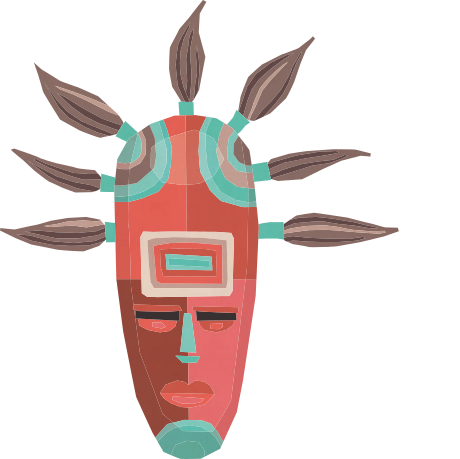
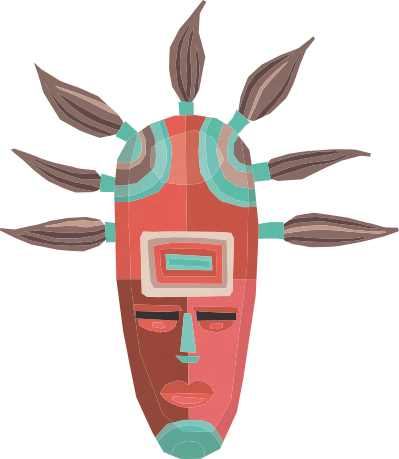
Add more masks

Changed region(s): [[0.0301, 0.0, 1.0, 1.0]]

diff --git a/index.html b/index.html
@@ -39,16 +39,45 @@
             float: left;
             clear: none;
             background-color: tan;
-            background-image:
-                url("assets/mask1.png"),
-                url("assets/fundo.png");
-            background-size: 25mm, cover;
-            background-position: 50% 10%, center center;
-            background-repeat: no-repeat, no-repeat;
             color: #5a3114;
             font-family: "p22", sans-serif;
             text-shadow: 0.2mm 0.2mm wheat;
 
+        }
+
+        .mask1,
+        .mask2,
+        .mask3,
+        .mask4 {
+            background-image:
+                url("assets/mask1.png"),
+                url("assets/fundo.png");
+            background-size: 30mm, cover;
+            background-position: 50% 10%, center center;
+            background-repeat: no-repeat, no-repeat;
+        }
+
+        .mask2 {
+            background-image:
+                url("assets/mask2.png"),
+                url("assets/fundo.png");
+            background-size: 44mm, cover;
+        }
+
+        .mask3 {
+            background-image:
+                url("assets/mask3.png"),
+                url("assets/fundo.png");
+            background-size: 40mm, cover;
+            background-position: 50% 19%, center center;
+        }
+
+        .mask4 {
+            background-image:
+                url("assets/mask4.png"),
+                url("assets/fundo.png");
+            background-size: 35mm, cover;
+            background-position: 50% 7%, center center;
         }
 
         .mini-euro {
@@ -136,7 +165,6 @@
         }
 
         .item {
-            /*border: 1px solid black;*/
             width: 6mm;
             height: 6mm;
             display: inline-block;
@@ -144,6 +172,7 @@
             background-size: contain;
             background-repeat: no-repeat;
         }
+
         .sn {
             background-image: url("assets/sn.png");
         }
@@ -165,17 +194,18 @@
         .to {
             background-image: url("assets/down.png");
         }
+
         .ca,
         .xca {
             width: 7mm;
             height: 7mm;
-            font-size: 0;
             background-image: url("assets/ca.png");
-            background-size: contain;
-            background-repeat: no-repeat;
         }
 
-        .pile, .gpile, .spile, .extra .ca {
+        .pile,
+        .gpile,
+        .spile,
+        .extra .ca {
             font-size: 0;
             background-image: url("assets/pile.png");
             background-size: contain;
@@ -191,9 +221,11 @@
         .spile {
             background-image: url("assets/spile.png");
         }
-        .extra .ca{
+
+        .extra .ca {
             background-image: url("assets/ca.png");
         }
+
         .per {
             border-block-color: transparent;
             visibility: hidden;
@@ -207,8 +239,6 @@
             font-size: 8mm;
             line-height: 8mm;
             visibility: visible;
-            color: #5a3114;
-            ;
         }
 
 
@@ -237,7 +267,11 @@
 
 
 
-        .merge, .split, .mca, .ms, .sa {
+        .merge,
+        .split,
+        .mca,
+        .ms,
+        .sa {
             border: none;
             font-size: 0;
             background-image: url("assets/merge2.png");
@@ -246,12 +280,15 @@
             width: 15mm;
             height: 10mm;
         }
+
         .mca {
             background-image: url("assets/mca.png");
         }
+
         .ms {
             background-image: url("assets/ms.png");
         }
+
         .split {
             background-image: url("assets/split.png");
         }
@@ -310,7 +347,9 @@
             visibility: visible;
         }
 
-        .pair, .equi, .sh {
+        .pair,
+        .equi,
+        .sh {
             font-size: 0;
             width: 15mm;
             height: 7mm;
@@ -318,11 +357,13 @@
             background-image: url("assets/pair2.png");
             background-repeat: no-repeat;
         }
+
         .sh {
             background-image: url("assets/sh.png");
             width: 18mm;
             height: 7mm;
         }
+
         .equi {
             background-size: 19mm;
             width: 19mm;
@@ -336,43 +377,43 @@
     <div class="paper a4"></div>
     <script type="module">
         const CARDS = [
-            { type: "moon", cost: 1, effect: ["sn"], pv: 2, extra: ["initial"], qty: 16 },
-            { type: "sun", cost: 1, effect: ["sn", "sn",], pv: 2, extra: ["initial"], qty: 8 },
-            { type: "sun", cost: 1, effect: ["xsp", "to", "sn", "sn", "sn"], pv: 2, extra: ["initial"], qty: 4 },
-            { type: "sun", cost: 1, effect: ["sp"], pv: 2, extra: ["initial"], qty: 4 },
+            { mask: 1, type: "moon", cost: 1, effect: ["sn"], pv: 2, extra: ["initial"], qty: 16 },
+            { mask: 2, type: "sun", cost: 1, effect: ["sn", "sn",], pv: 2, extra: ["initial"], qty: 8 },
+            { mask: 2, type: "sun", cost: 1, effect: ["xsp", "to", "sn", "sn", "sn"], pv: 2, extra: ["initial"], qty: 4 },
+            { mask: 2, type: "sun", cost: 1, effect: ["sp"], pv: 2, extra: ["initial"], qty: 4 },
 
-            { type: "moon", cost: 1, effect: ["sn"], pv: 2, extra: [], qty: 2 },
-            { type: "sun", cost: 1, effect: ["sn"], pv: 2, extra: [], qty: 2 },
+            { mask: 1, type: "moon", cost: 1, effect: ["sn"], pv: 2, extra: [], qty: 2 },
+            { mask: 2, type: "sun", cost: 1, effect: ["sn"], pv: 2, extra: [], qty: 2 },
 
-            { type: "moon", cost: 3, effect: ["sn"], pv: 4, extra: [], qty: 2 },
-            { type: "sun", cost: 3, effect: ["sn"], pv: 4, extra: [], qty: 2 },
+            { mask: 1, type: "moon", cost: 3, effect: ["sn"], pv: 4, extra: [], qty: 2 },
+            { mask: 2, type: "sun", cost: 3, effect: ["sn"], pv: 4, extra: [], qty: 2 },
 
-            { type: "moon", cost: 1, effect: ["ms"], pv: 2, extra: [], qty: 2 },
-            { type: "sun", cost: 1, effect: ["ms"], pv: 2, extra: [], qty: 2 },
+            { mask: 1, type: "moon", cost: 1, effect: ["ms"], pv: 2, extra: [], qty: 2 },
+            { mask: 2, type: "sun", cost: 1, effect: ["ms"], pv: 2, extra: [], qty: 2 },
 
-            { type: "moon", cost: 3, effect: ["sa"], pv: 4, extra: [], qty: 2 },
-            { type: "sun", cost: 3, effect: ["sa"], pv: 4, extra: [], qty: 2 },
+            { mask: 1, type: "moon", cost: 3, effect: ["sa"], pv: 4, extra: [], qty: 2 },
+            { mask: 2, type: "sun", cost: 3, effect: ["sa"], pv: 4, extra: [], qty: 2 },
 
-            { type: "moon", cost: 1, effect: ["sp"], pv: 2, extra: [], qty: 4 },
-            { type: "sun", cost: 1, effect: ["sp"], pv: 2, extra: [], qty: 4 },
+            { mask: 1, type: "moon", cost: 1, effect: ["sp"], pv: 2, extra: [], qty: 4 },
+            { mask: 2, type: "sun", cost: 1, effect: ["sp"], pv: 2, extra: [], qty: 4 },
 
-            { type: "moon", cost: 3, effect: ["xsp", "to", "sn", "sn", "sn"], pv: 4, extra: [], qty: 2 },
-            { type: "sun", cost: 3, effect: ["xsp", "to", "sn", "sn", "sn"], pv: 4, extra: [], qty: 2 },
+            { mask: 1, type: "moon", cost: 3, effect: ["xsp", "to", "sn", "sn", "sn"], pv: 4, extra: [], qty: 2 },
+            { mask: 2, type: "sun", cost: 3, effect: ["xsp", "to", "sn", "sn", "sn"], pv: 4, extra: [], qty: 2 },
 
-            { type: "moon", cost: 3, effect: ["xca", "to", "sj", "sj", "sj"], pv: 4, extra: [], qty: 3 },
-            { type: "sun", cost: 3, effect: ["xca", "to", "sj", "sj", "sj"], pv: 4, extra: [], qty: 3 },
+            { mask: 1, type: "moon", cost: 3, effect: ["xca", "to", "sj", "sj", "sj"], pv: 4, extra: [], qty: 3 },
+            { mask: 2, type: "sun", cost: 3, effect: ["xca", "to", "sj", "sj", "sj"], pv: 4, extra: [], qty: 3 },
 
-            { type: "moon", cost: 5, effect: ["sn", "sn", "sn"], pv: "?", extra: ["p1", "per", "sn"], qty: 1 },
-            { type: "sun", cost: 5, effect: ["sp", "sp"], pv: "?", extra: ["p1", "per", "sp"], qty: 1 },
-            { type: "moon", cost: 5, effect: ["so"], pv: "?", extra: ["p1", "per", "so"], qty: 1 },
-            { type: "sun", cost: 5, effect: ["mca"], pv: "?", extra: ["p1", "per", "pair"], qty: 1 },
-            { type: "moon", cost: 5, effect: ["mca"], pv: "?", extra: ["p1", "per", "equi"], qty: 1 },
+            { mask: 4, type: "moon", cost: 5, effect: ["sn", "sn", "sn"], pv: "?", extra: ["p1", "per", "sn"], qty: 1 },
+            { mask: 3, type: "sun", cost: 5, effect: ["sp", "sp"], pv: "?", extra: ["p1", "per", "sp"], qty: 1 },
+            { mask: 4, type: "moon", cost: 5, effect: ["so"], pv: "?", extra: ["p1", "per", "so"], qty: 1 },
+            { mask: 3, type: "sun", cost: 5, effect: ["mca"], pv: "?", extra: ["p1", "per", "pair"], qty: 1 },
+            { mask: 4, type: "moon", cost: 5, effect: ["mca"], pv: "?", extra: ["p1", "per", "equi"], qty: 1 },
 
-            { type: "moon", cost: 5, effect: ["ms"], pv: "?", extra: ["p1", "per", "sh"], qty: 1 },
-            { type: "sun", cost: 5, effect: ["xsp", "to", "sn", "sn", "sn"], pv: 16, extra: ["pn1", "per", "sj"], qty: 1 },
-            { type: "moon", cost: 5, effect: ["xca", "to", "sj", "sj", "sj"], pv: 16, extra: ["pn1", "per", "ca"], qty: 1 },
-            { type: "sun", cost: 5, effect: ["merge"], pv: 6, extra: ["p2", "per", "gpile"], qty: 1 },
-            { type: "moon", cost: 5, effect: ["split"], pv: 6, extra: ["p2", "per", "spile"], qty: 1 },
+            { mask: 4, type: "moon", cost: 5, effect: ["ms"], pv: "?", extra: ["p1", "per", "sh"], qty: 1 },
+            { mask: 3, type: "sun", cost: 5, effect: ["xsp", "to", "sn", "sn", "sn"], pv: 16, extra: ["pn1", "per", "sj"], qty: 1 },
+            { mask: 4, type: "moon", cost: 5, effect: ["xca", "to", "sj", "sj", "sj"], pv: 16, extra: ["pn1", "per", "ca"], qty: 1 },
+            { mask: 3, type: "sun", cost: 5, effect: ["merge"], pv: 6, extra: ["p2", "per", "gpile"], qty: 1 },
+            { mask: 4, type: "moon", cost: 5, effect: ["split"], pv: 6, extra: ["p2", "per", "spile"], qty: 1 },
 
         ];
         const eCards = document.querySelector(".paper");
@@ -390,6 +431,7 @@
             eCard.classList.add("card");
             eCard.classList.add("mini-euro");
             eCard.classList.add(card.type);
+            eCard.classList.add(`mask${card.mask}`);
             let eType = document.createElement("div");
             eType.classList.add("type");
             eType.classList.add(card.type);
